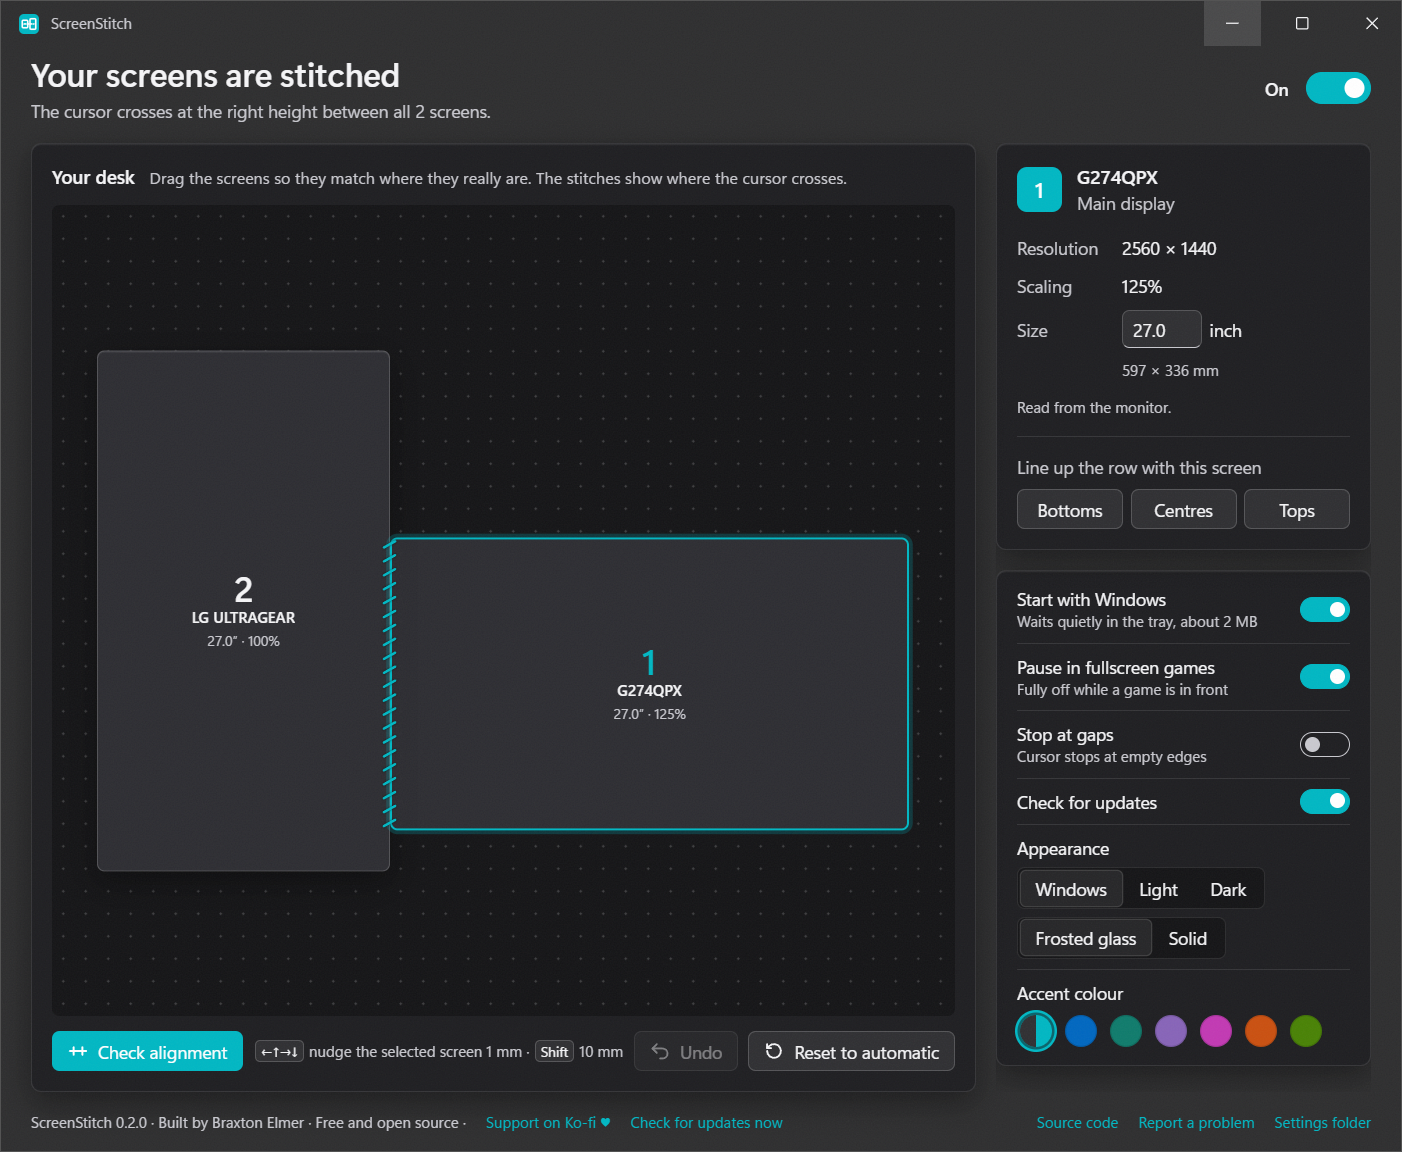
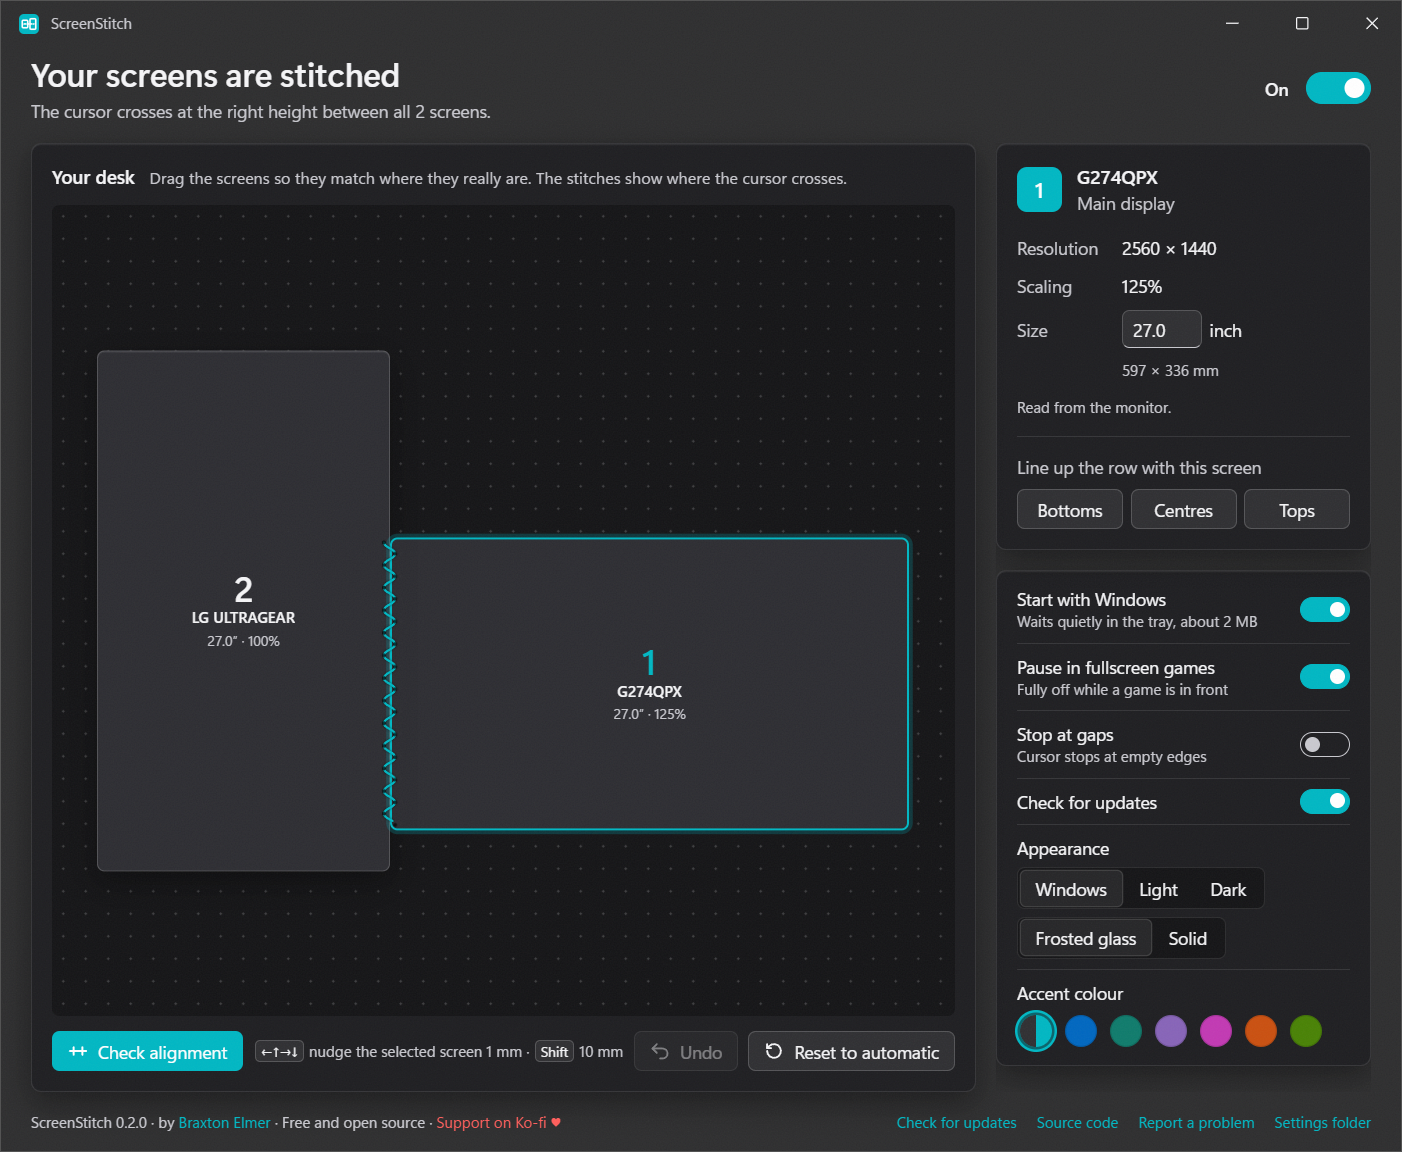
Draw seams as a thread through needle holes
Replace the row of diagonal ticks with one continuous thread that weaves through needle holes on both sides of the seam and draws itself along it when a screen is placed. Update the README screenshot to match.

diff --git a/settings/src/lib/Desk.svelte b/settings/src/lib/Desk.svelte
@@ -22,9 +22,34 @@
 
   const PAD = 36;
   const SNAP_PX = 10;
-  /** Stitches: short diagonal strokes across the seam, like thread. */
-  const STITCH_SPACING = 11;
+  /** The seam: one thread weaving through needle holes on both sides. */
+  const STITCH_SPACING = 9;
   const STITCH_HALF = 6;
+
+  /** Thread path and needle holes for a seam `len` px long, in the seam's own box. */
+  function wave(len: number, vertical: boolean) {
+    const count = Math.max(1, Math.floor((len - 8) / STITCH_SPACING));
+    const step = (len - 8) / count;
+    const holes = Array.from({ length: count + 1 }, (_, i) => ({
+      across: i % 2 === 0 ? 1.5 : STITCH_HALF * 2 - 1.5,
+      along: 4 + i * step,
+    }));
+    const pt = (across: number, along: number) => (vertical ? `${across} ${along}` : `${along} ${across}`);
+    let d = `M ${pt(holes[0].across, holes[0].along)}`;
+    for (let i = 1; i < holes.length; i++) {
+      const a = holes[i - 1];
+      const b = holes[i];
+      d += ` C ${pt(a.across, a.along + step / 2)} ${pt(b.across, b.along - step / 2)} ${pt(b.across, b.along)}`;
+    }
+    return {
+      d,
+      holes: holes.map((h, i) => ({
+        x: vertical ? h.across : h.along,
+        y: vertical ? h.along : h.across,
+        delay: `${Math.min(i * 12, 300)}ms`,
+      })),
+    };
+  }
 
   let width = $state(0);
   let height = $state(0);
@@ -123,8 +148,7 @@
 
       {#each dragging ? [] : seams as st, k (k)}
         {@const len = st.length * view.scale}
-        {@const count = Math.max(1, Math.floor(len / STITCH_SPACING))}
-        {@const step = len / count}
+        {@const thread = wave(len, st.vertical)}
         <svg
           class="stitch"
           aria-hidden="true"
@@ -133,14 +157,9 @@
           width={st.vertical ? STITCH_HALF * 2 : len}
           height={st.vertical ? len : STITCH_HALF * 2}
         >
-          {#each { length: count } as _, n (n)}
-            {@const c = step * (n + 0.5)}
-            {@const delay = `${Math.min(n * 14, 280)}ms`}
-            {#if st.vertical}
-              <line pathLength="1" style:--delay={delay} x1="1.5" y1={c + 2.5} x2={STITCH_HALF * 2 - 1.5} y2={c - 2.5} />
-            {:else}
-              <line pathLength="1" style:--delay={delay} x1={c - 2.5} y1={STITCH_HALF * 2 - 1.5} x2={c + 2.5} y2="1.5" />
-            {/if}
+          <path class="thread" pathLength="1" d={thread.d} />
+          {#each thread.holes as h, n (n)}
+            <circle class="hole" style:--delay={h.delay} cx={h.x} cy={h.y} r="1.5" />
           {/each}
         </svg>
       {/each}
@@ -220,24 +239,37 @@
     pointer-events: none;
     overflow: visible;
   }
-  /* A faint dark edge keeps each stitch crisp on top of the screens' borders. */
-  .stitch line {
+  /* The thread draws itself along the seam; a faint dark edge keeps it crisp
+     on top of the screens' borders. */
+  .thread {
+    fill: none;
     stroke: var(--accent);
-    stroke-width: 2;
+    stroke-width: 1.8;
     stroke-linecap: round;
     filter: drop-shadow(0 0 1px rgba(0, 0, 0, 0.55));
-    /* Sewn in one stitch after another along the seam. */
     stroke-dasharray: 1;
     stroke-dashoffset: 1;
-    animation: sew 160ms cubic-bezier(0.2, 0, 0, 1) var(--delay) forwards;
+    animation: sew 340ms cubic-bezier(0.2, 0, 0, 1) forwards;
+  }
+  .hole {
+    fill: rgba(0, 0, 0, 0.75);
+    transform-box: fill-box;
+    transform-origin: center;
+    animation: pop 160ms cubic-bezier(0.2, 0, 0, 1) var(--delay) both;
   }
   @keyframes sew {
     to {
       stroke-dashoffset: 0;
     }
   }
+  @keyframes pop {
+    from {
+      transform: scale(0);
+    }
+  }
   @media (prefers-reduced-motion: reduce) {
-    .stitch line {
+    .thread,
+    .hole {
       animation: none;
       stroke-dashoffset: 0;
     }
